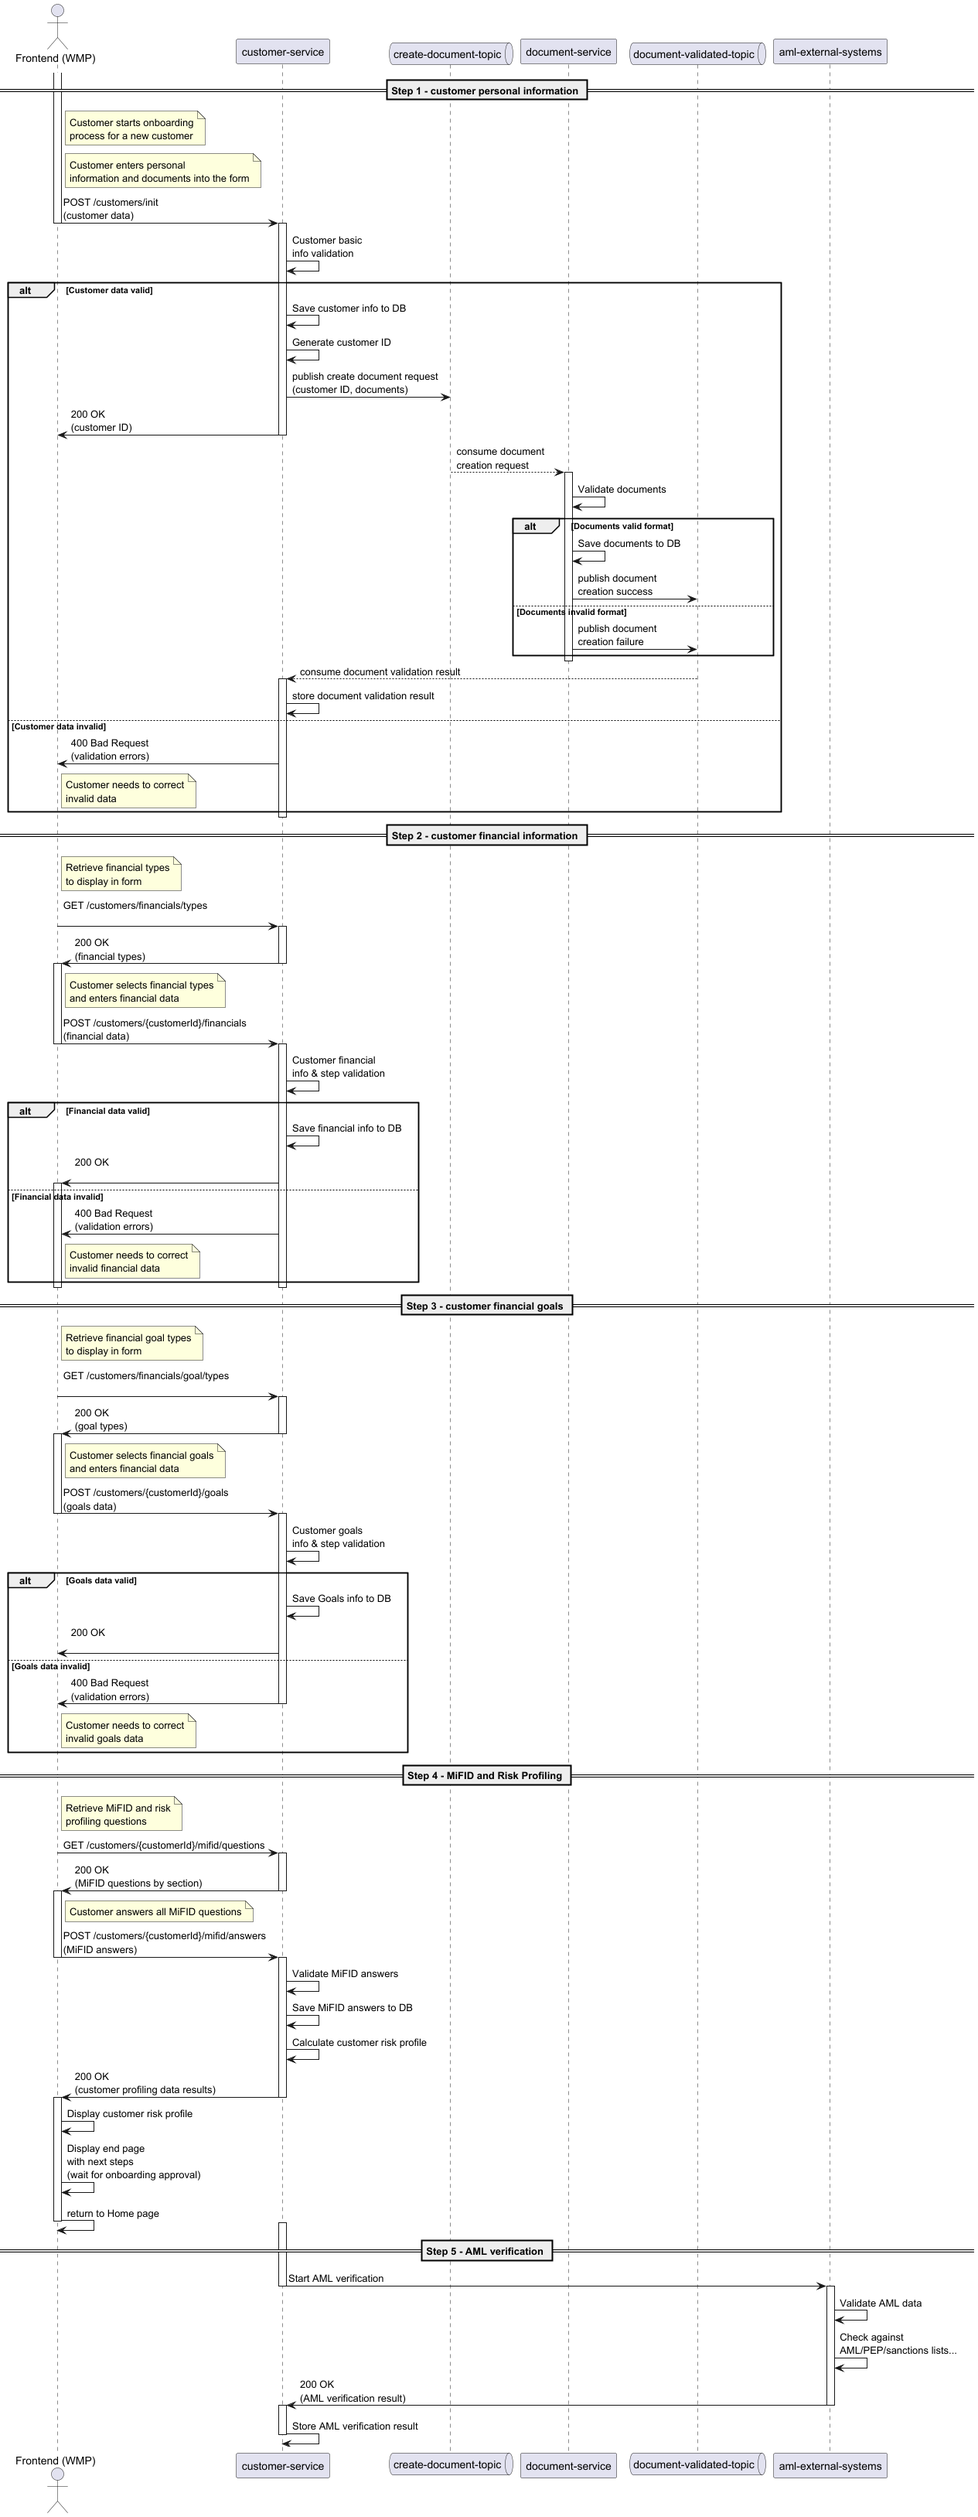
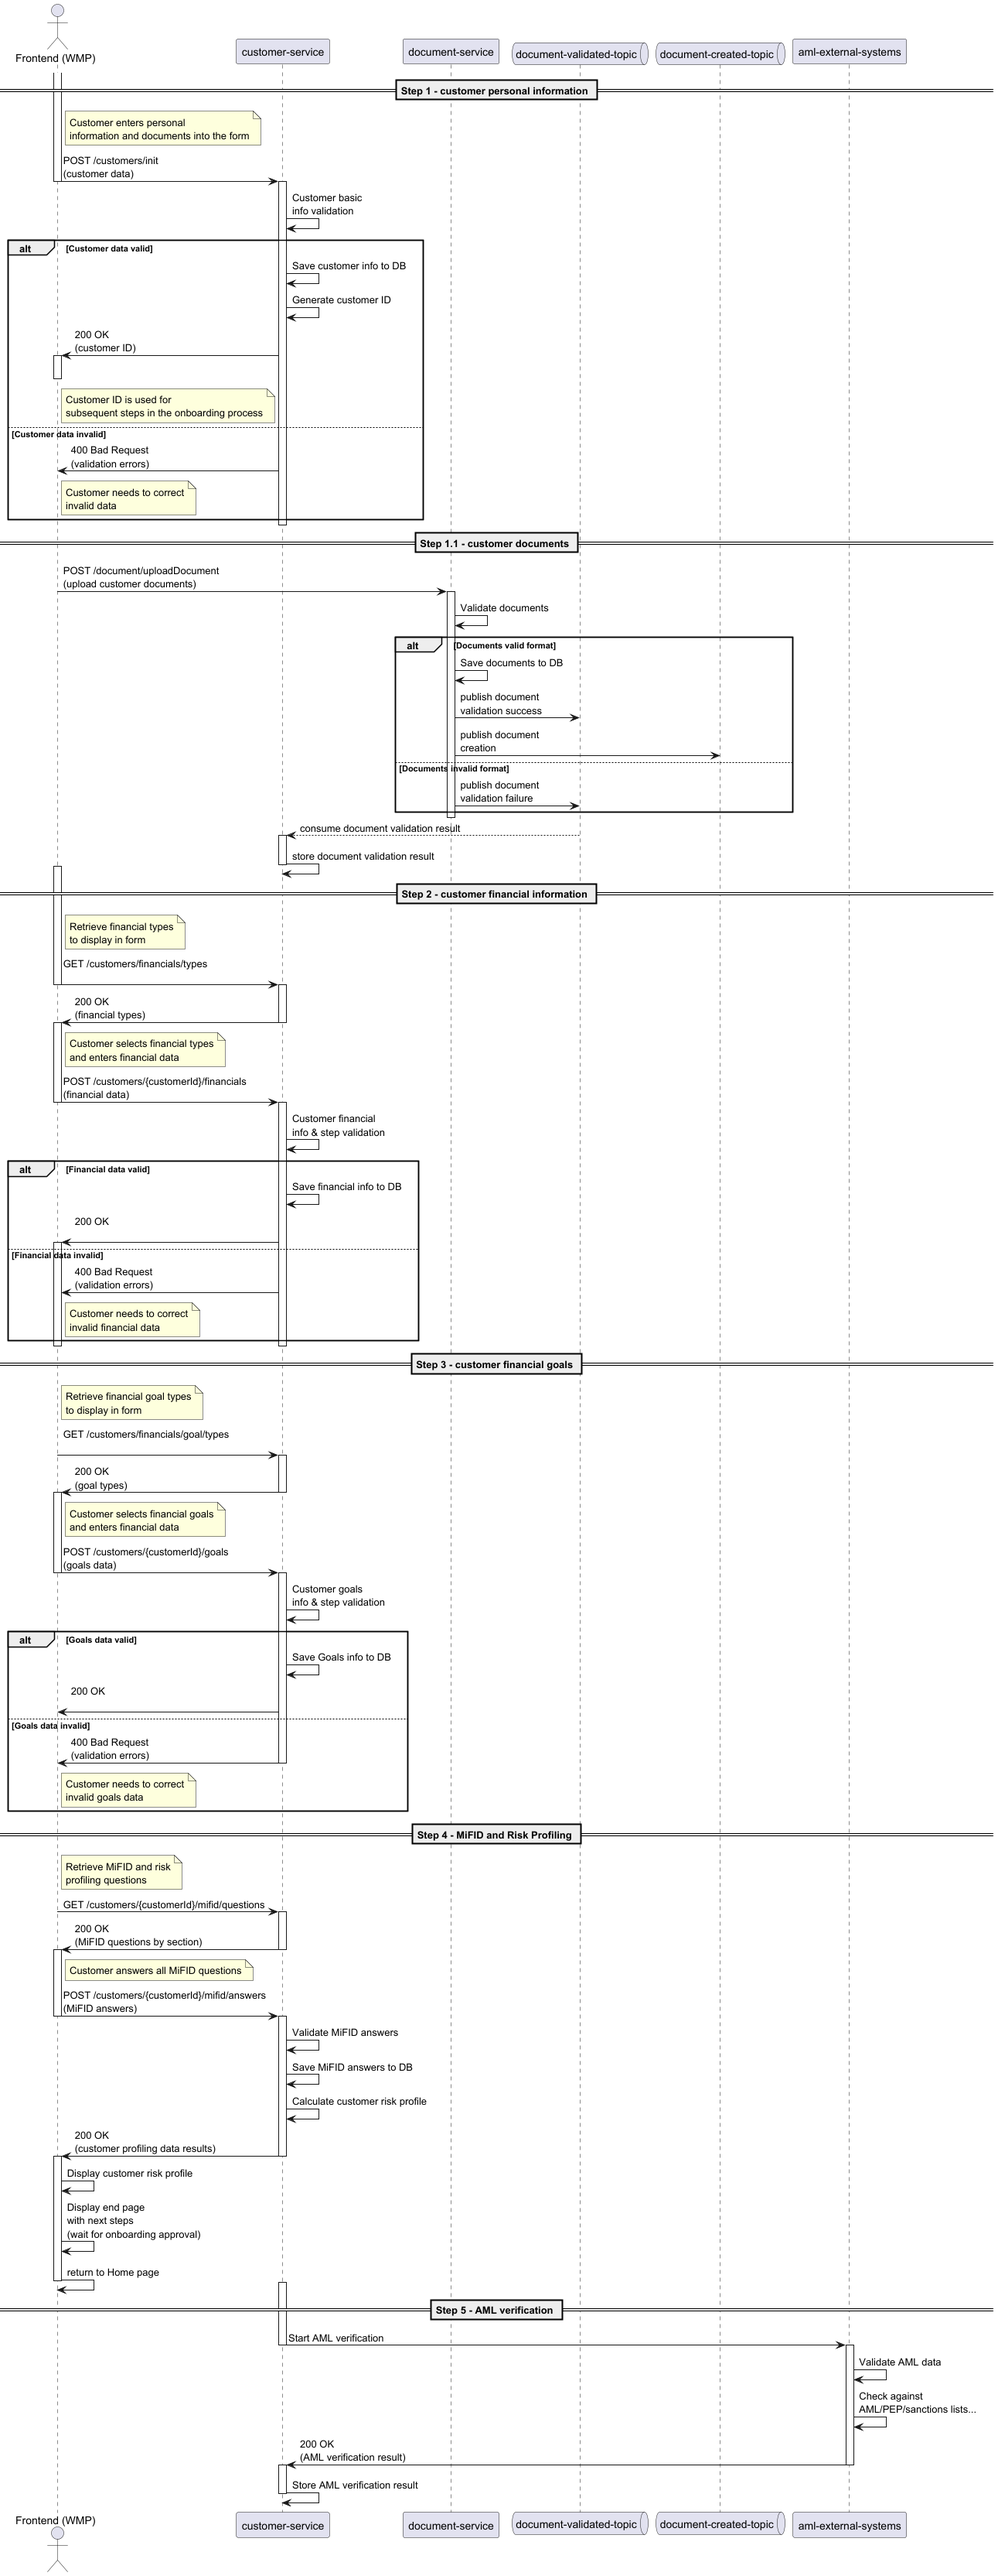
Adjusted documentation

diff --git a/docs/domain/assets/onboarding/customer-onboarding/process/customer-onboarding-process-diagram.md b/docs/domain/assets/onboarding/customer-onboarding/process/customer-onboarding-process-diagram.md
@@ -1,15 +1,14 @@
 @startuml
 actor FE as "Frontend (WMP)"
 participant "customer-service" as Customer
-queue "create-document-topic" as createDocumentTopic
 participant "document-service" as Document
 queue "document-validated-topic" as documentValidationTopic
+queue "document-created-topic" as documentCreatedTopic
 participant "aml-external-systems" as ExternalSystems
 
 
 == Step 1 - customer personal information ==
 activate FE
-note right of FE: Customer starts onboarding\nprocess for a new customer
 note right of FE: Customer enters personal\ninformation and documents into the form
 FE -> Customer: POST /customers/init\n(customer data)
 deactivate FE
@@ -18,31 +17,38 @@ Customer -> Customer: Customer basic\ninfo validation
 alt Customer data valid
     Customer -> Customer: Save customer info to DB
     Customer -> Customer: Generate customer ID
-    Customer -> createDocumentTopic: publish create document request\n(customer ID, documents)
     Customer -> FE: 200 OK\n(customer ID)
-    deactivate Customer
-    createDocumentTopic --> Document: consume document\ncreation request
-    activate Document
-    Document -> Document: Validate documents
-    alt Documents valid format
-        Document -> Document: Save documents to DB
-        Document -> documentValidationTopic: publish document\ncreation success
-    else Documents invalid format
-        Document -> documentValidationTopic: publish document\ncreation failure
-    end
-    deactivate Document
-documentValidationTopic --> Customer: consume document validation result
-activate Customer
-Customer -> Customer: store document validation result
+    activate FE
+    note right of FE: Customer ID is used for\nsubsequent steps in the onboarding process
+    deactivate FE
 else Customer data invalid
     Customer -> FE: 400 Bad Request\n(validation errors)
     note right of FE: Customer needs to correct\ninvalid data
 end
 deactivate Customer
 
-== Step 2 - customer financial information ==
+
+== Step 1.1 - customer documents ==
 activate FE
+FE -> Document: POST /document/uploadDocument\n(upload customer documents)
+activate Document
+Document -> Document: Validate documents
+alt Documents valid format
+Document -> Document: Save documents to DB
+Document -> documentValidationTopic: publish document\nvalidation success
+Document -> documentCreatedTopic: publish document\ncreation
+else Documents invalid format
+Document -> documentValidationTopic: publish document\nvalidation failure
+end
+deactivate Document
+documentValidationTopic --> Customer: consume document validation result
+activate Customer
+Customer -> Customer: store document validation result
+deactivate Customer
+
+== Step 2 - customer financial information ==
 note right of FE: Retrieve financial types\nto display in form
+activate FE
 FE -> Customer: GET /customers/financials/types\n
 deactivate FE
 
